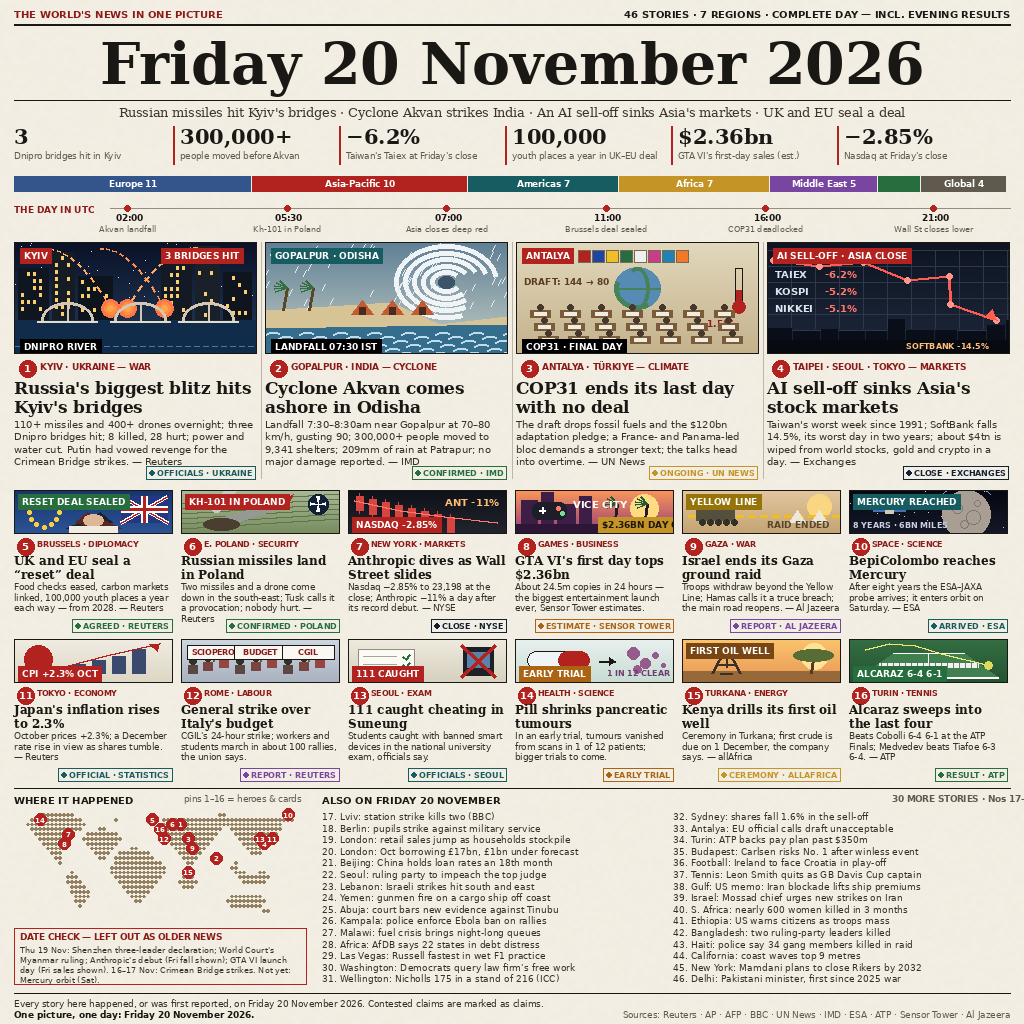
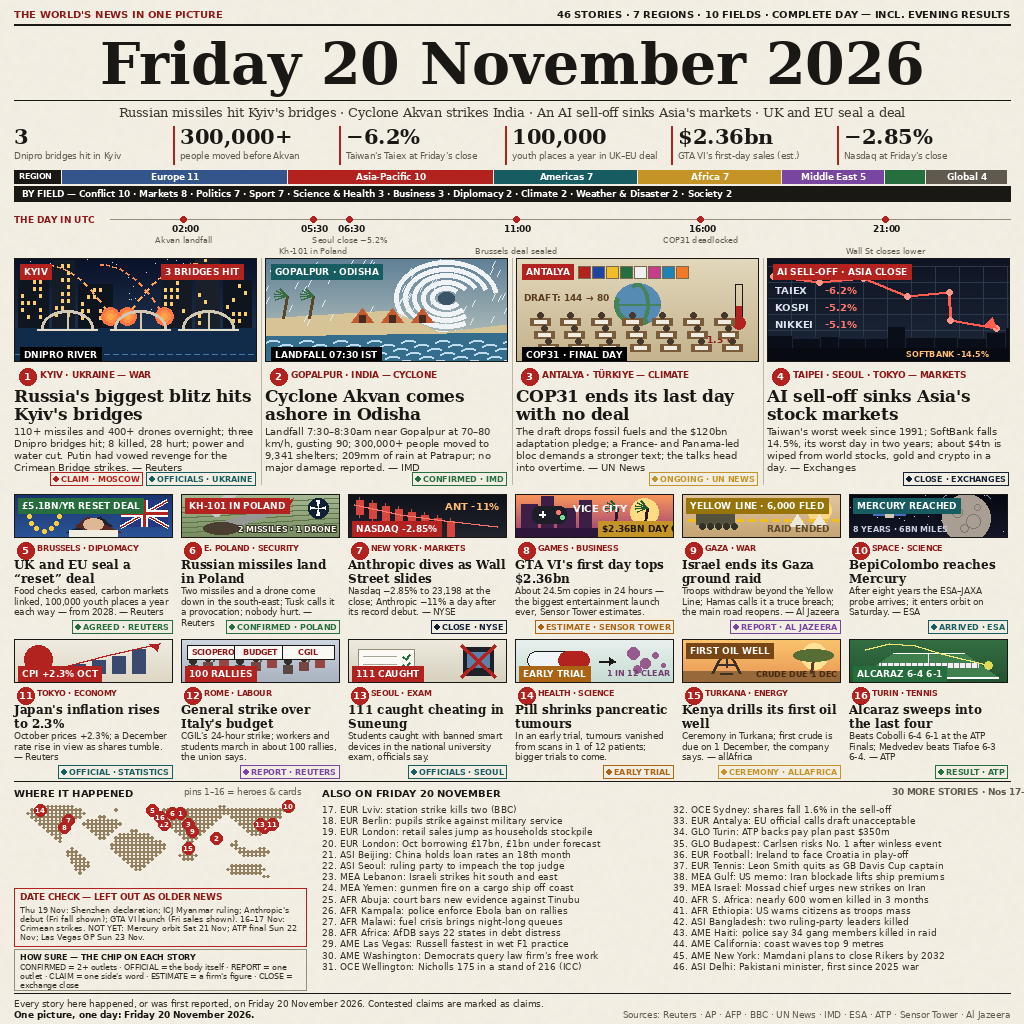
news-image-20261120 v2: field tally bar, hour-true UTC timeline, attribution legend, dual claim chip, not-yet line, in-scene card figures, brief region tags

diff --git a/draw.py b/draw.py
@@ -119,12 +119,19 @@ def tag(d, x, y, text, bg, fg=(255, 255, 255), font=None, pad=4):
     return x + w
 
 
+def rtext(d, w, y, text, fill, font=None):
+    """Right-aligned small figure text inside a scene."""
+    f = font or SANS_B(8)
+    d.text((w - 4 - d.textlength(text, font=f), y), text, font=f, fill=fill)
+
+
 def chip(d, x, y, text, kind):
     """Status chip: coloured dot + bold small-caps text, right-aligned to x."""
     colours = {"CONFIRMED": GREEN, "OFFICIALS": TEAL, "CLOSE": NAVY,
                "ONGOING": GOLD, "REPORT": (120, 70, 160), "AGREED": GREEN,
                "ESTIMATE": (170, 100, 20), "ARRIVED": TEAL, "EARLY": (170, 100, 20),
-               "RESULT": GREEN, "OFFICIAL": TEAL, "CEREMONY": GOLD}
+               "RESULT": GREEN, "OFFICIAL": TEAL, "CEREMONY": GOLD,
+               "CLAIM": (178, 34, 30)}
     c = colours.get(kind, MUTE)
     f = SANS_B(8)
     w = int(d.textlength(text, font=f)) + 14
@@ -327,7 +334,7 @@ def scene_brussels(w, h):
               fill=(90, 40, 36))
     d.ellipse([w // 2 - 10, h - 20, w // 2 + 10, h - 8], fill=SKIN)
     d.rectangle([w // 2 - 24, h - 8, w // 2 + 24, h - 2], fill=(240, 236, 224))
-    tag(d, 4, 4, "RESET DEAL SEALED", GREEN)
+    tag(d, 4, 4, "£5.1BN/YR RESET DEAL", GREEN)
     return img
 
 
@@ -351,6 +358,10 @@ def scene_poland(w, h):
                    (cx + 8 * math.cos(ang + 0.2), cy + 8 * math.sin(ang + 0.2))],
                   fill=(255, 255, 255))
     tag(d, 4, 4, "KH-101 IN POLAND", RED)
+    s = "2 MISSILES · 1 DRONE"
+    d.text((w - 4 - d.textlength(s, font=SANS_B(8)), h - 14), s,
+           font=SANS_B(8), fill=(255, 250, 235), stroke_width=1,
+           stroke_fill=(40, 44, 32))
     return img
 
 
@@ -408,7 +419,7 @@ def scene_gaza(w, h):
     for tx in (w - 52, w - 30):
         d.polygon([(tx, h - 12), (tx + 8, h - 24), (tx + 16, h - 12)],
                   fill=(238, 232, 218))
-    tag(d, 4, 4, "YELLOW LINE", (150, 116, 10))
+    tag(d, 4, 4, "YELLOW LINE · 6,000 FLED", (150, 116, 10))
     d.text((w - 74, h - 15), "RAID ENDED", font=SANS_B(9), fill=(90, 70, 40))
     return img
 
@@ -465,6 +476,7 @@ def scene_strike(w, h):
         d.rectangle([px, 6, px + 52, 20], fill=(250, 248, 242), outline=INK)
         f = SANS_B(7.5)
         d.text((px + 26 - d.textlength(txt, font=f) / 2, 9), txt, font=f, fill=RED_DK)
+    tag(d, 4, h - 17, "100 RALLIES", RED)
     return img
 
 
@@ -520,6 +532,7 @@ def scene_kenya(w, h):
     d.line([w - 30, h - 10, w - 28, h - 24], fill=(80, 60, 40), width=3)
     d.ellipse([w - 48, h - 34, w - 8, h - 22], fill=(86, 110, 54))
     tag(d, 4, 4, "FIRST OIL WELL", (120, 70, 20))
+    rtext(d, w, h - 14, "CRUDE DUE 1 DEC", (70, 40, 14))
     return img
 
 
@@ -544,6 +557,7 @@ def scene_tennis(w, h):
 # ================================================================ CONTENT
 HEROES = [
     dict(n=1, scene=scene_kyiv, kick="KYIV · UKRAINE — WAR", chip=("OFFICIALS · UKRAINE", "OFFICIALS"),
+         chip2=("CLAIM · MOSCOW", "CLAIM"),
          head="Russia's biggest blitz hits Kyiv's bridges",
          deck="110+ missiles and 400+ drones overnight; three Dnipro bridges hit; "
               "8 killed, 28 hurt; power and water cut. Putin had vowed revenge "
@@ -649,6 +663,12 @@ BRIEFS = [
     ("Delhi:", "Pakistani minister, first since 2025 war"),
 ]
 
+# region tag per brief, same order as BRIEFS (EUR/ASI/AME/AFR/MEA/OCE/GLO)
+BRIEF_REGIONS = ["EUR", "EUR", "EUR", "EUR", "ASI", "ASI", "MEA", "MEA",
+                 "AFR", "AFR", "AFR", "AFR", "AME", "AME", "OCE", "OCE",
+                 "EUR", "GLO", "GLO", "EUR", "EUR", "MEA", "MEA", "AFR",
+                 "AFR", "ASI", "AME", "AME", "AME", "ASI"]
+
 # coarse dotted world map, 72 x 26 grid ('#' = land)
 MAP_ROWS = [
     "                                                                        ",
@@ -718,7 +738,7 @@ def build_page():
 
     # ---- top strap + masthead
     d.text((MX, 8), "THE WORLD'S NEWS IN ONE PICTURE", font=SANS_B(10), fill=RED_DK)
-    strap = "46 STORIES · 7 REGIONS · COMPLETE DAY — INCL. EVENING RESULTS"
+    strap = "46 STORIES · 7 REGIONS · 10 FIELDS · COMPLETE DAY — INCL. EVENING RESULTS"
     d.text((W - MX - d.textlength(strap, font=SANS_B(10)), 8), strap,
            font=SANS_B(10), fill=INK)
     d.line([MX, 24, W - MX, 24], fill=INK, width=2)
@@ -742,40 +762,55 @@ def build_page():
         text_block(d, x, ty + 27, small, SANS(8.5), MUTE, colw - 12, 10,
                    max_lines=2, tag=f"tally{i}")
     # ---- region tally bar
-    by = ty + 52
+    by = ty + 46
     regions = [("Europe 11", (52, 84, 140)), ("Asia-Pacific 10", (178, 34, 30)),
                ("Americas 7", (23, 92, 96)), ("Africa 7", (196, 148, 38)),
                ("Middle East 5", (120, 70, 160)), ("Oceania 2", (38, 110, 62)),
                ("Global 4", (96, 90, 78))]
     widths = [11, 10, 7, 7, 5, 2, 4]
-    x = MX
+    d.rectangle([MX, by, MX + 46, by + 13], fill=INK)
+    d.text((MX + 5, by + 2), "REGION", font=SANS_B(7.5), fill=(255, 255, 255))
+    x = MX + 48
     total = sum(widths)
+    avail = CW - 48
     for (label, col), wfrac in zip(regions, widths):
-        seg = int(CW * wfrac / total)
-        d.rectangle([x, by, x + seg - 2, by + 15], fill=col)
+        seg = int(avail * wfrac / total)
+        d.rectangle([x, by, x + seg - 2, by + 13], fill=col)
         f = SANS_B(8.5)
         if seg > 52:
-            d.text((x + seg / 2 - d.textlength(label, font=f) / 2, by + 3),
+            d.text((x + seg / 2 - d.textlength(label, font=f) / 2, by + 2),
                    label, font=f, fill=(255, 255, 255))
         x += seg
 
-    # ---- UTC timeline strip
-    ly = by + 24
+    # ---- field tally strip (breadth by subject, counted)
+    fy2 = by + 16
+    d.rectangle([MX, fy2, W - MX, fy2 + 15], fill=INK)
+    fields = ("BY FIELD — Conflict 10 · Markets 8 · Politics 7 · Sport 7 · "
+              "Science & Health 3 · Business 3 · Diplomacy 2 · Climate 2 · "
+              "Weather & Disaster 2 · Society 2")
+    d.text((MX + 8, fy2 + 3), fields, font=SANS_B(8.5), fill=(255, 255, 255))
+
+    # ---- UTC timeline strip: hour-true positions, staggered labels
+    ly = fy2 + 24
     d.text((MX, ly + 4), "THE DAY IN UTC", font=SANS_B(9), fill=RED_DK)
-    d.line([MX + 96, ly + 8, W - MX, ly + 8], fill=(150, 142, 124), width=1)
-    events = [(0.02, "02:00", "Akvan landfall"), (0.20, "05:30", "Kh-101 in Poland"),
-              (0.38, "07:00", "Asia closes deep red"), (0.56, "11:00", "Brussels deal sealed"),
-              (0.74, "16:00", "COP31 deadlocked"), (0.93, "21:00", "Wall St closes lower")]
-    for frac, tm, ev in events:
+    d.line([MX + 96, ly + 9, W - MX, ly + 9], fill=(150, 142, 124), width=1)
+    events = [(2 / 24, "02:00", "Akvan landfall", 0),
+              (5.5 / 24, "05:30", "Kh-101 in Poland", 1),
+              (6.5 / 24, "06:30", "Seoul close −5.2%", 0),
+              (11 / 24, "11:00", "Brussels deal sealed", 1),
+              (16 / 24, "16:00", "COP31 deadlocked", 0),
+              (21 / 24, "21:00", "Wall St closes lower", 1)]
+    for frac, tm, ev, row in events:
         ex = MX + 96 + frac * (CW - 110)
-        d.ellipse([ex - 3, ly + 5, ex + 3, ly + 11], fill=RED)
-        d.text((ex - 12, ly + 13), tm, font=SANS_B(8.5), fill=INK)
+        d.ellipse([ex - 3, ly + 6, ex + 3, ly + 12], fill=RED)
+        d.text((ex - 12, ly + 14), tm, font=SANS_B(8.5), fill=INK)
         f = SANS(8)
-        d.text((ex - d.textlength(ev, font=f) / 2, ly + 24), ev, font=f, fill=MUTE)
+        d.text((ex - d.textlength(ev, font=f) / 2, ly + 25 + row * 11), ev,
+               font=f, fill=MUTE)
 
     # ---- heroes
-    hy = ly + 42
-    hero_h, scene_h = 240, 112
+    hy = ly + 48
+    hero_h, scene_h = 230, 104
     gap = 8
     hw = (CW - gap * 3) // 4
     for i, s in enumerate(HEROES):
@@ -784,23 +819,25 @@ def build_page():
         num_badge(d, x + 5, hy + scene_h + 6, s["n"])
         d.text((x + 26, hy + scene_h + 8), s["kick"], font=SANS_B(8.5), fill=RED_DK)
         yy = text_block(d, x, hy + scene_h + 24, s["head"], SERIF(16.5), INK,
-                        hw - 2, 19, max_lines=3, tag=f"hero{s['n']} head")
+                        hw - 2, 18.5, max_lines=3, tag=f"hero{s['n']} head")
         yy = text_block(d, x, yy + 2, s["deck"], SANS(9.8), (52, 48, 40),
-                        hw - 2, 12.4, max_lines=6, tag=f"hero{s['n']} deck")
-        chip(d, x + hw - 2, hy + hero_h - 16, s["chip"][0], s["chip"][1])
+                        hw - 2, 12.0, max_lines=6, tag=f"hero{s['n']} deck")
+        left = chip(d, x + hw - 2, hy + hero_h - 16, s["chip"][0], s["chip"][1])
+        if s.get("chip2"):
+            chip(d, left - 4, hy + hero_h - 16, s["chip2"][0], s["chip2"][1])
         if i:
             d.line([x - gap // 2, hy, x - gap // 2, hy + hero_h - 4],
                    fill=(190, 182, 164), width=1)
 
     # ---- cards, two rows of six
-    cy = hy + hero_h + 8
-    card_h, cscene_h = 143, 44
+    cy = hy + hero_h + 6
+    card_h, cscene_h = 140, 44
     cw6 = (CW - gap * 5) // 6
     for r in range(2):
         for c in range(6):
             s = CARDS[r * 6 + c]
             x = MX + c * (cw6 + gap)
-            y = cy + r * (card_h + 6)
+            y = cy + r * (card_h + 5)
             d = paste_scene(page, s["scene"](cw6, cscene_h), x, y)
             num_badge(d, x + 3, y + cscene_h + 4, s["n"])
             d.text((x + 23, y + cscene_h + 6), s["kick"], font=SANS_B(7.5),
@@ -811,22 +848,32 @@ def build_page():
                        cw6 - 1, 10.6, max_lines=4, tag=f"card{s['n']} deck")
             chip(d, x + cw6 - 1, y + card_h - 14, s["chip"][0], s["chip"][1])
 
-    # ---- bottom: map + date check (left), briefs (right)
-    boty = cy + 2 * card_h + 18
+    # ---- bottom: map + date check + legend (left), briefs (right)
+    boty = cy + 2 * card_h + 13
     d.line([MX, boty - 6, W - MX, boty - 6], fill=INK, width=1)
     d.text((MX, boty), "WHERE IT HAPPENED", font=SANS_B(10), fill=INK)
     d.text((MX + 170, boty), "pins 1–16 = heroes & cards", font=SANS(8.5), fill=MUTE)
-    draw_map(d, MX + 2, boty + 16, rh=4.8)
-    dcy = boty + 134
-    d.rectangle([MX, dcy, MX + 292, dcy + 56], outline=RED, width=1)
+    draw_map(d, MX + 2, boty + 16, rh=3.5)
+    dcy = boty + 101
+    d.rectangle([MX, dcy, MX + 292, dcy + 58], outline=RED, width=1)
     d.text((MX + 6, dcy + 4), "DATE CHECK — LEFT OUT AS OLDER NEWS",
            font=SANS_B(8.5), fill=RED_DK)
     text_block(d, MX + 6, dcy + 17,
-               "Thu 19 Nov: Shenzhen three-leader declaration; World "
-               "Court's Myanmar ruling; Anthropic's debut (Fri fall "
-               "shown); GTA VI launch day (Fri sales shown). 16–17 Nov: "
-               "Crimean Bridge strikes. Not yet: Mercury orbit (Sat).",
-               SANS(8.2), (52, 48, 40), 280, 10.0, max_lines=4, tag="datecheck")
+               "Thu 19 Nov: Shenzhen declaration; ICJ Myanmar ruling; "
+               "Anthropic's debut (Fri fall shown); GTA VI launch "
+               "(Fri sales shown). 16–17 Nov: Crimean strikes. "
+               "NOT YET: Mercury orbit Sat 21 Nov; ATP final Sun 22 Nov; "
+               "Las Vegas GP Sun 23 Nov.",
+               SANS(8.0), (52, 48, 40), 280, 9.0, max_lines=5, tag="datecheck")
+    lgy = dcy + 61
+    d.rectangle([MX, lgy, MX + 292, lgy + 41], outline=(150, 142, 124), width=1)
+    d.text((MX + 6, lgy + 3), "HOW SURE — THE CHIP ON EACH STORY",
+           font=SANS_B(7.8), fill=INK)
+    text_block(d, MX + 6, lgy + 13,
+               "CONFIRMED = 2+ outlets · OFFICIAL = the body itself · "
+               "REPORT = one outlet · CLAIM = one side's word · "
+               "ESTIMATE = a firm's figure · CLOSE = exchange close",
+               SANS(7.6), (52, 48, 40), 280, 9.0, max_lines=3, tag="legend")
     bx = MX + 308
     d.text((bx, boty), "ALSO ON FRIDAY 20 NOVEMBER", font=SANS_B(10), fill=INK)
     d.text((W - MX - 118, boty), "30 MORE STORIES · Nos 17–46", font=SANS_B(8.5),
@@ -837,9 +884,9 @@ def build_page():
         for j in range(15):
             n = 17 + ci * 15 + j
             lead, rest = BRIEFS[ci * 15 + j]
-            line = f"{n}. {lead} {rest}"
+            line = f"{n}. {BRIEF_REGIONS[ci * 15 + j]} {lead} {rest}"
             yy = text_block(d, bx + ci * (col_w + 14), yy, line, SANS(9.3),
-                            (52, 48, 40), col_w, 11.6, max_lines=1,
+                            (52, 48, 40), col_w, 11.2, max_lines=1,
                             tag=f"brief{n}")
     # ---- footer
     fy = H - 26
